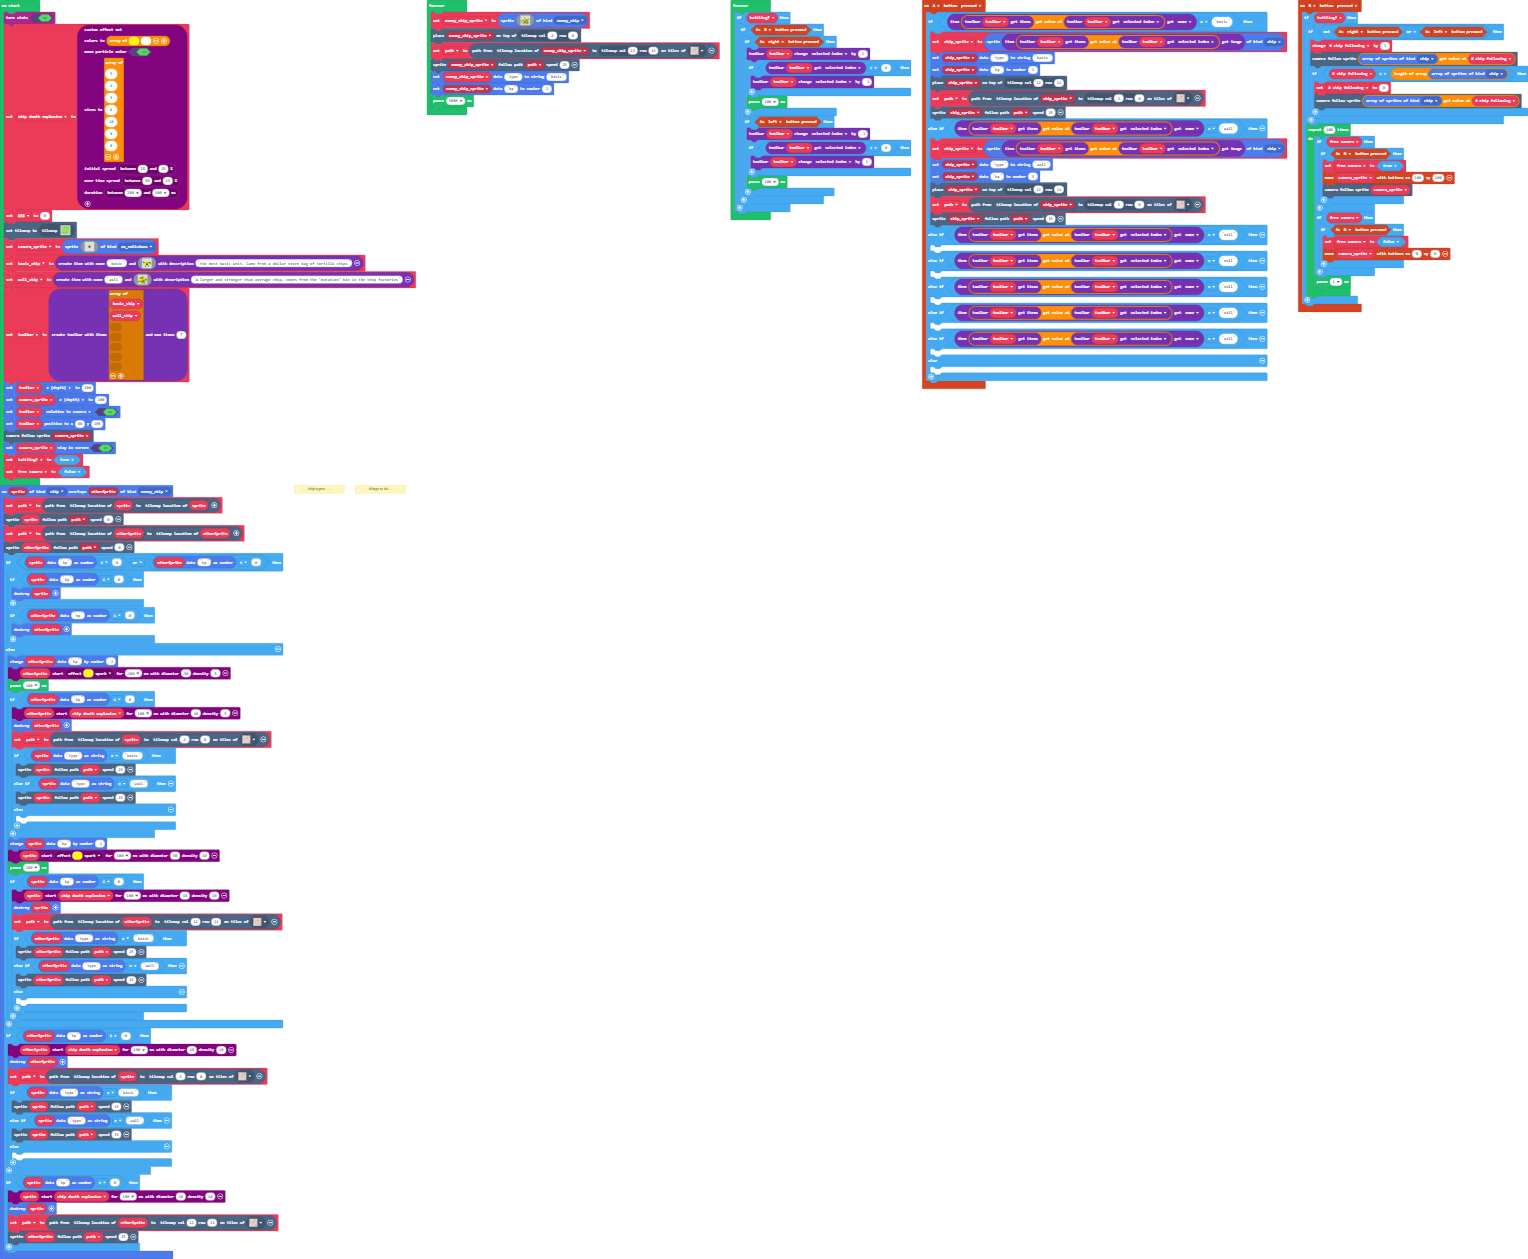
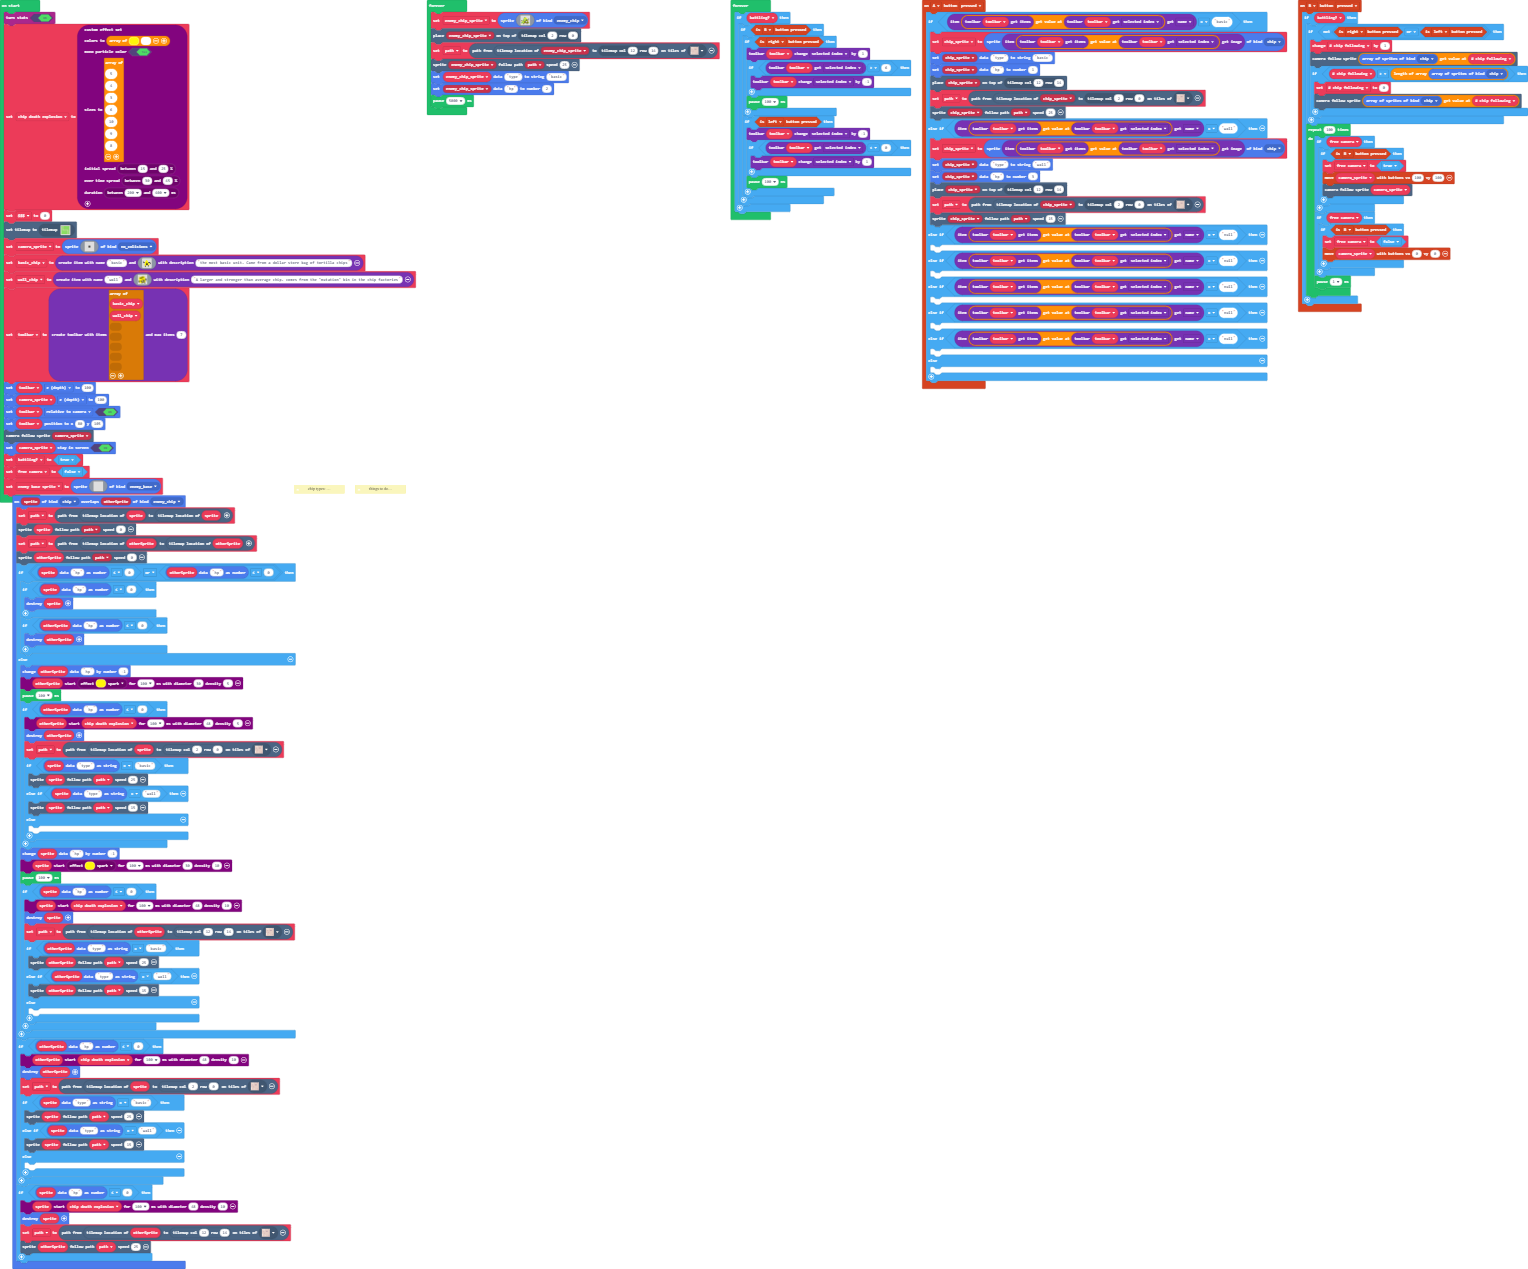
Update pxt.json, main.blocks, main.ts, images.g.jres, images.g.ts

diff --git a/images.g.ts b/images.g.ts
@@ -49,6 +49,95 @@ f f 5 6 f 1 6 5 5 f f f f 5 . .
 . . . . . 
 . . . . . 
 `;
+            case "M(?z+I[``K-?W!(Ezi0":
+            case "wall":return img`
+. . . . . . . . . . . . . . . . 
+. . . . . . . . 5 5 5 . . . . . 
+. . . . 5 5 5 5 5 5 f 5 . . . . 
+. 5 5 5 5 5 f f f f 5 5 5 . . . 
+. 5 5 5 f f f 5 5 5 5 5 5 . . . 
+. 5 f f f 5 5 5 5 f 5 5 5 . . . 
+. 5 5 5 5 5 f 5 5 5 5 5 5 f f . 
+. 5 5 5 5 5 5 5 5 5 5 5 5 . f f 
+. 5 5 5 5 5 5 5 5 5 5 5 5 . . f 
+. . 5 5 5 5 5 5 f f f f 5 5 . f 
+. f 5 5 f f f f f 1 1 f 5 5 . f 
+f f 5 5 5 f 1 1 1 1 f f 5 5 . . 
+f . 5 5 5 5 f f f f f 5 5 5 . . 
+f . 5 5 5 5 5 5 5 5 5 f . . . . 
+. . . 5 5 5 f . . . . f f . . . 
+. . . . . . f . . . . . f . . . 
+`;
+            case "image4":
+            case "Player chip bag":return img`
+...............5................
+..............555fff............
+.........fffff55fdd5fff.........
+......fffdddddf55ddf5f5555......
+....ffdddd55d55555df55555.......
+..ffdddf5555dfffffdf55555.......
+.fdd5555f555df111f5df5ddf.......
+fd555555f55dd5fff55dddff2f......
+fddd5f55f22dd555ddddff222f......
+fddddd55f25ddddddfff222222f.....
+fffddddd55ddddfff2222222222f....
+f22fffddddddff22222222222fff....
+f22222ffffff222222222222fddf....
+f2222222222222222222222fddddf...
+f22222222222222222222ffdd5ddf...
+f22222222222222222fffdd5dd5ddf..
+.f222222222222222f555dd55dd5df..
+.f2222222222222ffff55d555ddd5f..
+.f222222222222fff555dd5555dddf..
+.f222222222fff5555ddd55555ddddf.
+..fffffffffdddd5dddd5f555f5dddf.
+..fdddd55ddddddddddd555f555dddf.
+...fd5555dd555555ddd5555555dfff.
+...f5f5f5dd55f5555dddddddddf22f.
+....ff555dd555f555ddd5dddff22f..
+....ff555dd555f55ddd555ff2222f..
+.....f5f5dd5f5f5ddfffff222222f..
+......f55dd55f5fff22222222222f..
+.......ffffffff2222222222222f...
+........ff222222222222222222f...
+..........f22222222222222222f...
+...........fffffffffffffffff....
+`;
+            case "image5":
+            case "enemy chip base":return img`
+................................
+.................fffff..........
+...........ffffffbbbbf..........
+........fffbbbbbbbbbf...........
+.......fbbbbbbbbbbbf............
+......fbbbbbbbbbbbf.............
+.....fbbbbbbffffff..............
+....fbffffffcccccffff...........
+...fffcccccccccccfcccfff........
+...fcccccccccccccfccccccfff.....
+...fffcccccccccccfcccccccccf....
+...f66fffccccccccfcccccccfff....
+...f66666ffccccccffffffff77f....
+...f6666666ffffff7777777777f....
+...f666666666f7777777777777f....
+...f666666666f7777777777777f....
+...f666666666f7777777777777f....
+...f666666666f7777777777777f....
+...f666666666f7777777777777f....
+...f666666666f7777777777777f....
+...f666666666f7777777777777f....
+...f666666666f7777777777777f....
+...f666666666f7777777777777f....
+...f666666666f7777777777777f....
+...f666666666f7777777777777f....
+...f666666666f7777777777777f....
+...cff6666666f7777777777777f....
+...cccfff6666f77777777777ffc....
+....cc...ff66f777ffffffff..c....
+..........cffffff...............
+..........ccc...................
+...........cc...................
+`;
         }
         return null;
     })

diff --git a/main.ts b/main.ts
@@ -2,6 +2,7 @@ namespace SpriteKind {
     export const chip = SpriteKind.create()
     export const no_colisions = SpriteKind.create()
     export const enemy_chip = SpriteKind.create()
+    export const enemy_base = SpriteKind.create()
 }
 controller.B.onEvent(ControllerButtonEvent.Pressed, function () {
     if (battling) {
@@ -201,6 +202,24 @@ scene.cameraFollowSprite(camera_sprite)
 camera_sprite.setStayInScreen(true)
 battling = true
 free_camera = false
+let enemy_base_sprite = sprites.create(img`
+    . . . . . . . . . . . . . . . . 
+    . . . . . . . . . . . . . . . . 
+    . . . . . . . . . . . . . . . . 
+    . . . . . . . . . . . . . . . . 
+    . . . . . . . . . . . . . . . . 
+    . . . . . . . . . . . . . . . . 
+    . . . . . . . . . . . . . . . . 
+    . . . . . . . . . . . . . . . . 
+    . . . . . . . . . . . . . . . . 
+    . . . . . . . . . . . . . . . . 
+    . . . . . . . . . . . . . . . . 
+    . . . . . . . . . . . . . . . . 
+    . . . . . . . . . . . . . . . . 
+    . . . . . . . . . . . . . . . . 
+    . . . . . . . . . . . . . . . . 
+    . . . . . . . . . . . . . . . . 
+    `, SpriteKind.enemy_base)
 forever(function () {
     enemy_chip_sprite = sprites.create(assets.image`moldy_basic`, SpriteKind.enemy_chip)
     tiles.placeOnTile(enemy_chip_sprite, tiles.getTileLocation(2, 0))
